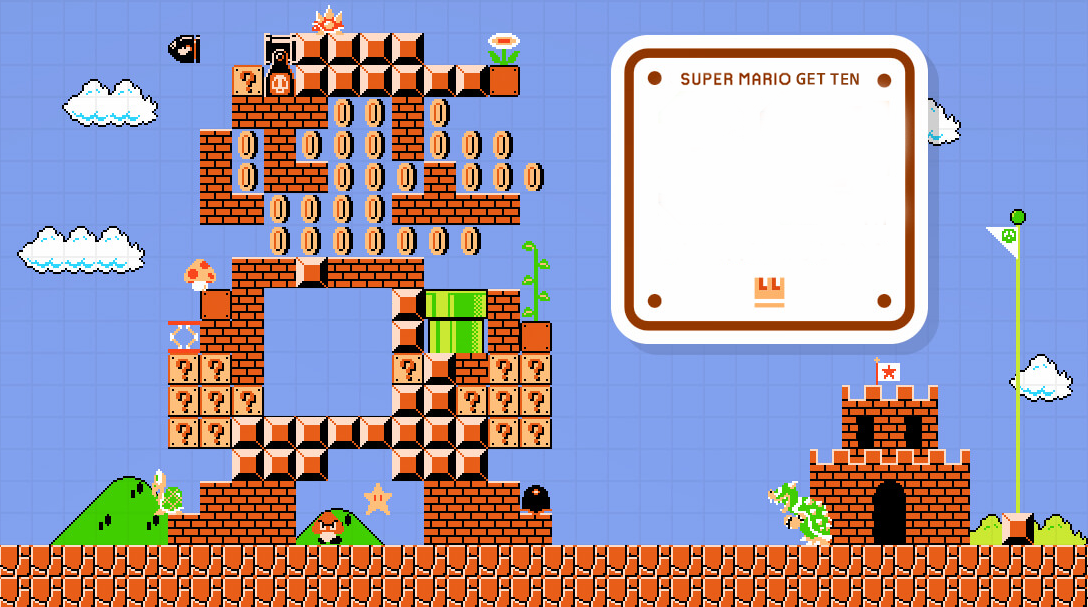
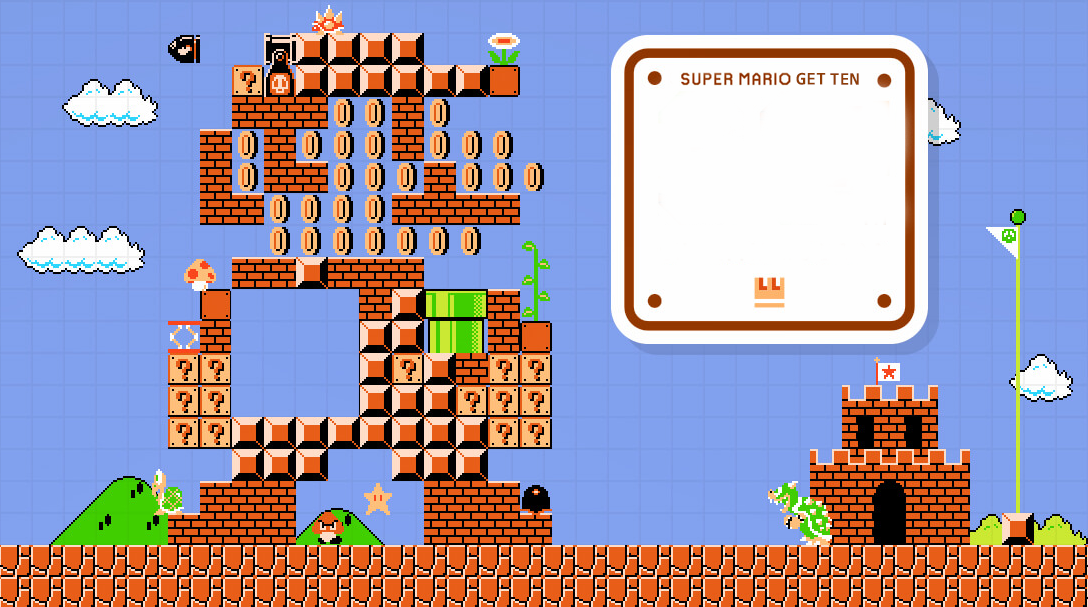
Mofidy background images + add resolution 4x4 & 6x6

Changed region(s): [[0.1875, 0.4745, 0.25, 0.7117], [0.3125, 0.4745, 0.375, 0.682]]

diff --git a/justGetTenGUI.py b/justGetTenGUI.py
@@ -8,12 +8,13 @@ pygame.init()
 # Init vars
 mapSize = 5
 cellSize = 32
-xPos = 288
-yPos = 265
+xPos = 289
+yPos = 231
 proba=(0.05,0.30,0.6)
 firstSelection = False
 size = width, height = 1088, 607
 gameBoard = gameBoard(mapSize, proba)
+display(gameBoard)
 screen = pygame.display.set_mode(size)
 pygame.display.set_caption("Super Mario Get Ten")
 
